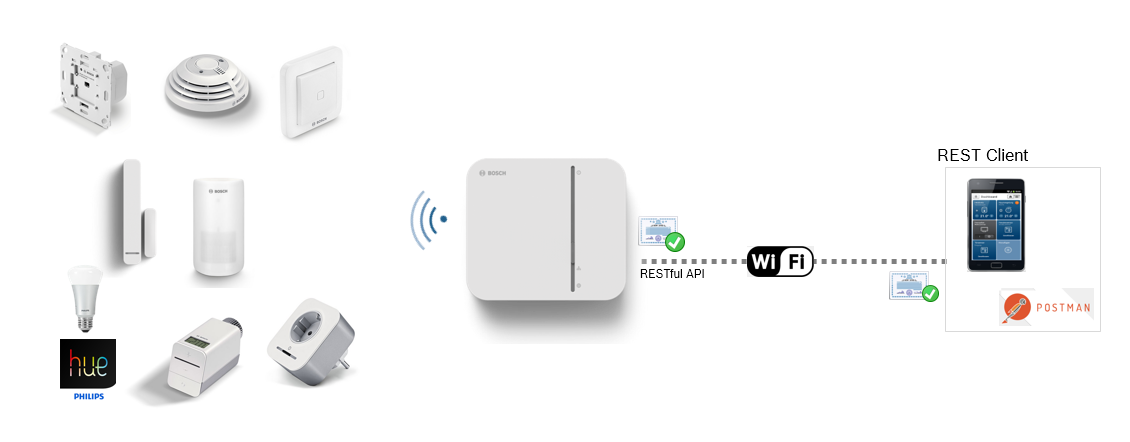
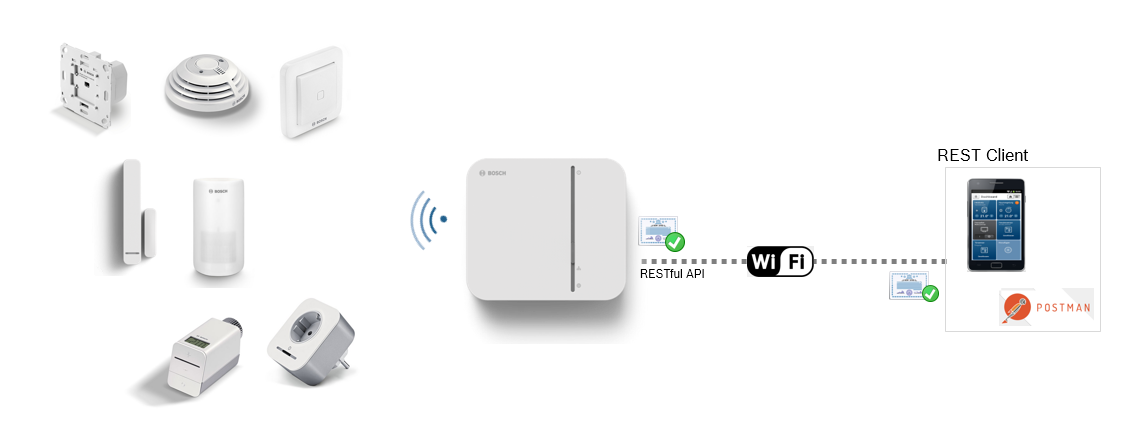
Fix link, update schematic view

Changed region(s): [[0.031, 0.6471, 0.1239, 0.9118]]

diff --git a/postman/README.md b/postman/README.md
@@ -35,7 +35,7 @@ Now, you have all the prerequisites to communicate with your SHC via Postman. St
 
 ## Register a New Client to the Bosch Smart Home Controller
 
-A client is a software that has the permission to communicate with the Bosch Smart Home Controller. For example, the Bosch Smart Home app is a client of the the Bosch Smart Home Controller as soon as it has successfully registered to it. All clients can be listed in the Bosch Smart Home App. Have a look in your App and go to `Management -> Mobile devices`. The communication between a client and the Bosch Smart Home Controller is always encrypted with TLSv1.2.
+A client is a software that has the permission to communicate with the Bosch Smart Home Controller. For example, the Bosch Smart Home App is a client of the the Bosch Smart Home Controller as soon as it has successfully registered to it. All registered clients can be listed in the Bosch Smart Home App. Have a look in your App and go to `Management -> Mobile devices`. The communication between a client and the Bosch Smart Home Controller is always encrypted with TLSv1.2.
 ![Schematic view](images/shc-client-schematic-view.png "Schematic view")
 **Hint:** In order to register a New Client, always **press the button of the Bosch Smart Home Controller until the LEDs are flashing** before calling the **New Client** function.
 
@@ -45,7 +45,7 @@ To register a **New Client** to the Bosch Smart Home Controller you need the fol
 - The 2048 bit self-signed certificate from the previous step
 - The master password of your Bosch Smart Home Controller, which you created upon initial setup
 
-**Hint:** Your Bosch Smart Home Controller, must already be initialized and paired with a Bosch Smart Home App!
+**Hint:** Your Bosch Smart Home Controller must already be initialized and paired with a Bosch Smart Home App!
 
 ### Naming convention for the Client ID and Client Name
 Using the API requires identification against the Bosch Smart Home Controller with an individual Client ID and Client Name that starts with `oss_` followed by the name of the open source project, or the name of the developer.

diff --git a/README.md b/README.md
@@ -5,7 +5,7 @@
 - [Overview](#overview)
 - [How to use the Postman Collection](postman/)
   * [Import the collection and the certificate into Postman](postman#import-the-collection-and-the-certificate-into-postman)
-  * [Add a New Client to the Bosch Smart Home Controller](postman#add-a-new-client-to-the-bosch-smart-home-controller)
+  * [Add a New Client to the Bosch Smart Home Controller](postman#register-a-new-client-to-the-bosch-smart-home-controller)
 - [Local OpenAPI Documentation](https://apidocs.bosch-smarthome.com/local/)
 - [Terms and Conditions](#terms-and-conditions)
 
